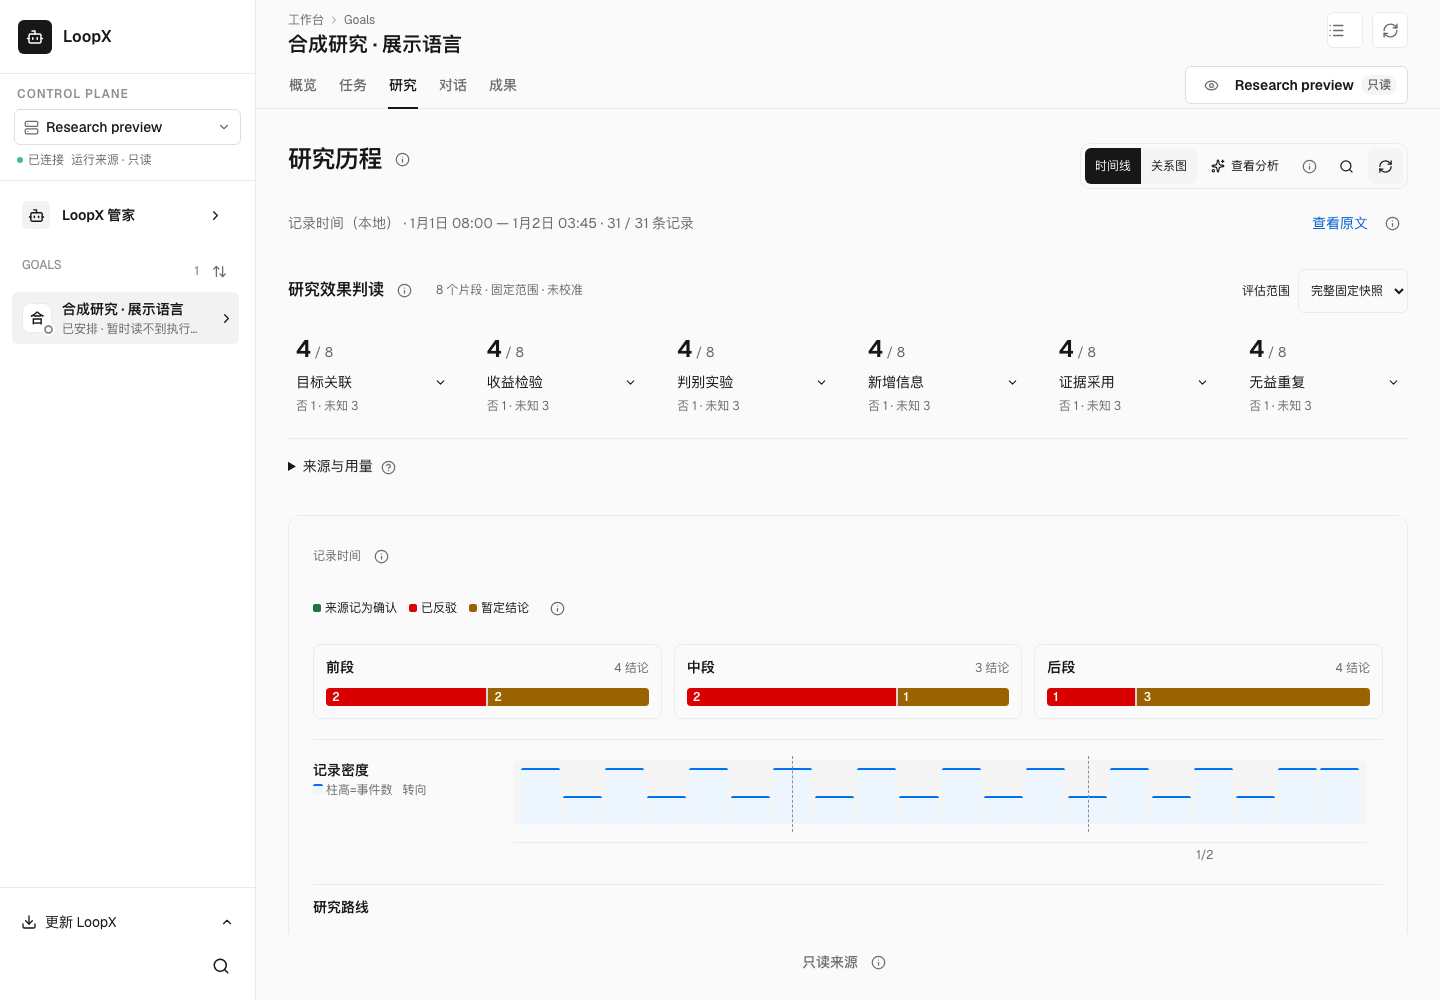
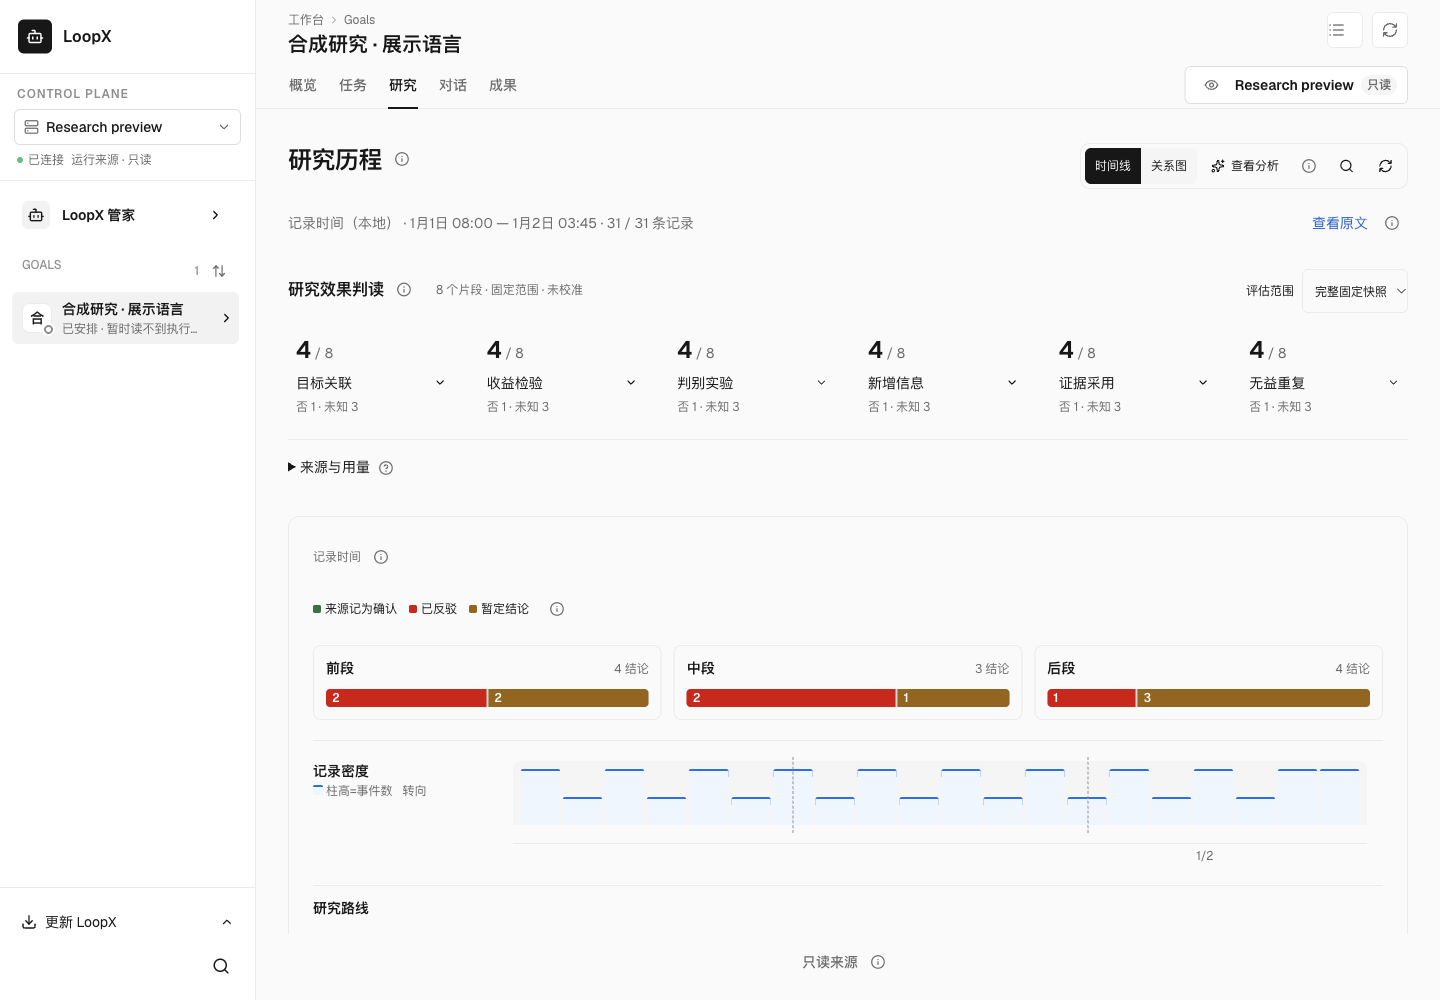
test(research): qualify comparison alongside translated search

diff --git a/examples/personal-workspace-browser/evidence/research-version-language/README.md b/examples/personal-workspace-browser/evidence/research-version-language/README.md
@@ -5,7 +5,9 @@ production SQLite/history/analysis HTTP owners. No model or solver runs.
 These captures show renderer behavior, not installed-App adoption or independently
 qualified translation meaning.
 
-- Rendered product source: `8bfe566767a213b93c0fda3a16b089f1229c1e1b`.
+- Rendered product source: `4a49f62f0eb5ac74c524ac26155f03d3c47c2433`.
+- The rendered source includes the current-main translated-search integration;
+  the evidence refresh changes only this scenario and its captures.
 - Before: `fb0303f33327c51da434a215f0c757b5d1a5b16a`.
 - Both views use the same 31-event fixed snapshot, including two revisions of
   one finding, a refuted observation and an unverified follow-up.
